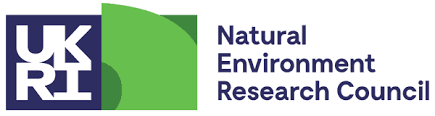
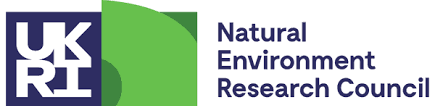
Sort of fixed the issue with the contacts being different heights

diff --git a/contact.html b/contact.html
@@ -32,7 +32,7 @@
 
         <!-- Intro and Contact Grid -->
 <div class="container">
-    <div class="row text-top">
+    <div class="row-text-top">
       <div>
         <p> MAARU has been a collaborative effort borne out of cross-disciplinary research at 
             Imperial College London. This work has been presented at multiple national and international 
@@ -88,12 +88,12 @@
         <p>Thank you also to our funders here: </p>
       </div>
       <div>
-        <img src="images/ICL.png" alt="Imperial College London Logo" height="40">
+        <img class = "funders" src="images/ICL.png" alt="Imperial College London Logo">
       </div>
       <div>
-        <img src="images/nerc.png" alt="NERC Logo" height="40">
+        <img class = "funders" src="images/nerc.png" alt="NERC Logo">
       </div>
-      <div><img src="images/KCC.png" alt="Kings College Cambridge Logo" height="40">
+      <div><img class = "funders" src="images/KCC.png" alt="Kings College Cambridge Logo">
     </div>
     </div>
   </div>

diff --git a/styles.css b/styles.css
@@ -177,7 +177,12 @@ header nav li a:hover {
 .row img {
     width: 90%;
     height: auto;
-  }
+}
+
+.row img.funders {
+    height: 60px;
+    width: auto;
+}
 
 .text-center {
     font-family: titles;
@@ -202,12 +207,9 @@ header nav li a:hover {
     margin: auto;
 }
 
-
-.invisible-contacts img {
-    max-width: 30vm; 
-    height: auto;
-    display: block;
-    margin: auto;
+.row-text-top img {
+    height: 200px;
+    width: auto;
 }
 
 .invisible-contacts {
